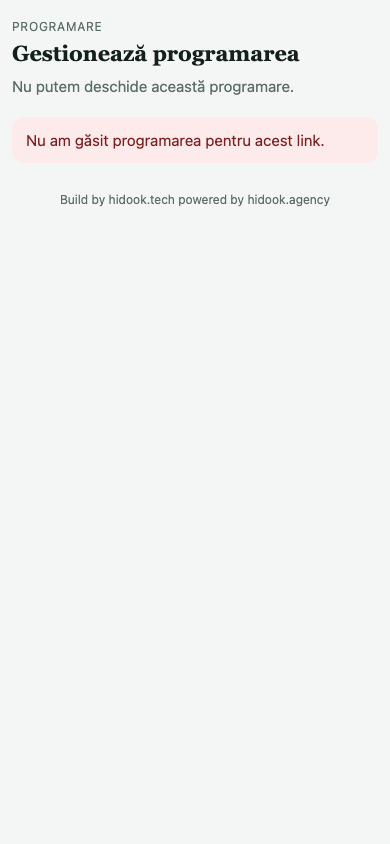
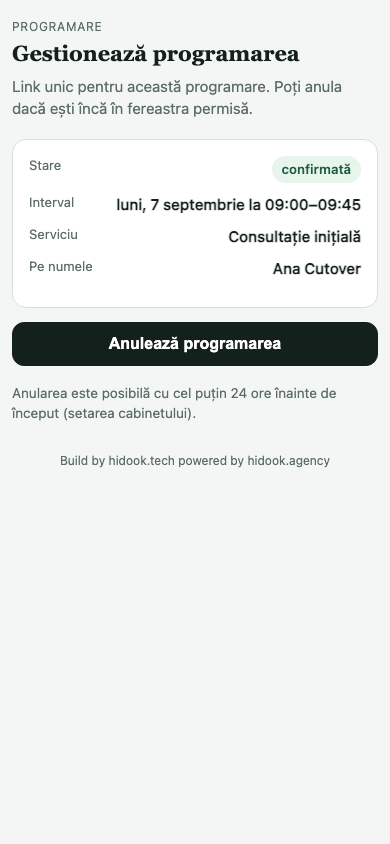
fix(calendar): keep visitor manage token after owner lifecycle email
Root cause for AC3 shot 13 invalid-token UI: ensureRawManageToken minted a new
hash on owner cancel/confirm emails when raw token was absent, killing the
visitor manage-link. Stop rotating the hash; omit manage URL when raw token is
unknown. Shot script asserts real booking card (not Nu am găsit). Regression
oracle on owner cancel + re-shot 13/06/14.

diff --git a/bot/calendar-native/email/index.js b/bot/calendar-native/email/index.js
@@ -66,27 +66,24 @@ function formatOwnerLocal(startUtc, timezone) {
 }
 
 /**
- * Ensure we have a raw manage token for the email. If caller did not pass one
- * (later lifecycle events), rotate: mint new token, update hash (old links die).
+ * Resolve raw manage token for email bodies.
+ *
+ * Only the create path holds the raw token (hashed at rest afterward). Later
+ * lifecycle events (owner cancel/confirm/reschedule) must NOT mint+rotate the
+ * hash — that invalidated the visitor's original manage-link (AC3 defect).
+ * When raw token is absent, return null and omit the manage URL from email.
  *
  * @param {import('node:sqlite').DatabaseSync} db
  * @param {object} booking
  * @param {string|null|undefined} rawToken
- * @returns {string}
+ * @returns {string|null}
  */
 function ensureRawManageToken(db, booking, rawToken) {
     if (rawToken && String(rawToken).length >= 16) {
         return String(rawToken);
     }
-    const next = mintManageToken();
-    const tokenHash = hashToken(next);
-    const ts = new Date().toISOString();
-    db.prepare(
-        `UPDATE calendar_bookings
-         SET manage_token_hash = ?, updated_at = ?
-         WHERE id = ? AND customer_id = ? AND site_id = ?`
-    ).run(tokenHash, ts, booking.id, booking.customer_id, booking.site_id);
-    return next;
+    // Do not rotate manage_token_hash. Old visitor links must keep working.
+    return null;
 }
 
 function loadServiceName(db, booking) {
@@ -137,8 +134,9 @@ function enqueueBookingEmail(db, input) {
     });
 
     const rawToken = ensureRawManageToken(db, booking, input.manageToken);
+    // Cancel emails omit manage link; other templates include it only when raw token known.
     const manageUrl =
-        templateKey === 'booking_cancelled' ? null : buildManageUrl(rawToken);
+        templateKey === 'booking_cancelled' || !rawToken ? null : buildManageUrl(rawToken);
 
     const serviceName = loadServiceName(db, booking);
     const tz = loadTimezone(db, booking);

diff --git a/bot/test/calendar-native-email.test.js b/bot/test/calendar-native-email.test.js
@@ -34,6 +34,7 @@ const ROOT = path.resolve(__dirname, '../..');
 const { openCalendarDb } = require('../calendar-native/db');
 const engine = require('../calendar-native/engine');
 const email = require('../calendar-native/email');
+const manageApi = require('../calendar-native/manage-api');
 const { zonedWallTimeToUtcMs, toIsoUtc } = require('../calendar-native/time');
 const { SCHEMA_VERSION, EMAIL_DELIVERY_STATUSES } = require('../calendar-native/schema');
 
@@ -202,6 +203,13 @@ assert.ok(created.manageToken.length >= 24, 'unguessable manage token length');
     assert.strictEqual(cancelMail.booking_status_snapshot, 'cancelled');
     assert.ok(/anulat/i.test(cancelMail.subject));
     assert.ok(!/confirmată/i.test(cancelMail.subject));
+
+    // AC3: owner cancel must NOT rotate manage_token_hash — visitor link still resolves
+    const afterOwnerCancel = manageApi.getBookingByToken(db, b2.manageToken);
+    assert.ok(afterOwnerCancel && afterOwnerCancel.ok, 'visitor manage token still valid after owner cancel email');
+    assert.ok(afterOwnerCancel.booking, 'manage API returns booking card');
+    assert.strictEqual(afterOwnerCancel.booking.status, 'cancelled');
+    assert.strictEqual(afterOwnerCancel.booking.id, b2.booking.id);
 
     // --- 4. Retry → dead_letter (no silent drop) ---
     email.setTransport(email.createFailingTransport());
